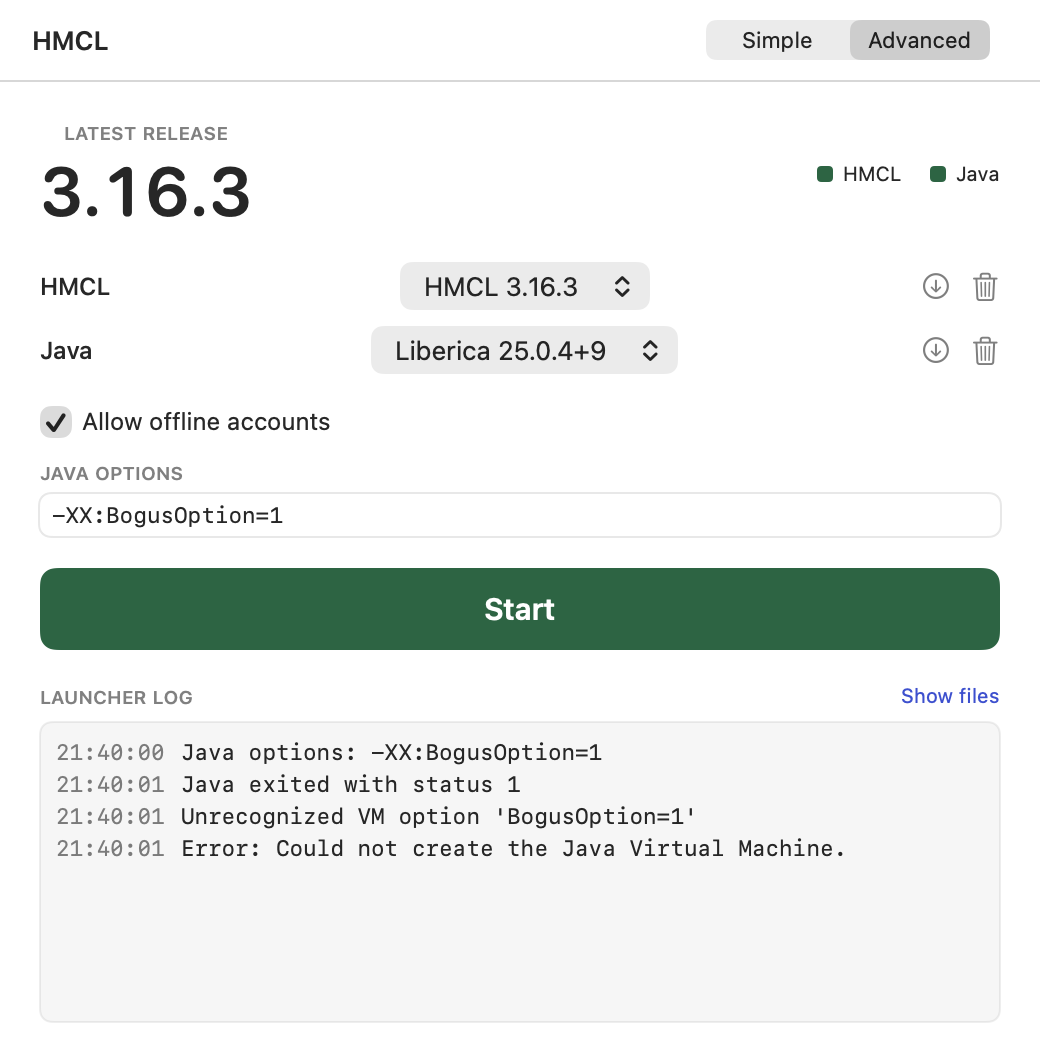
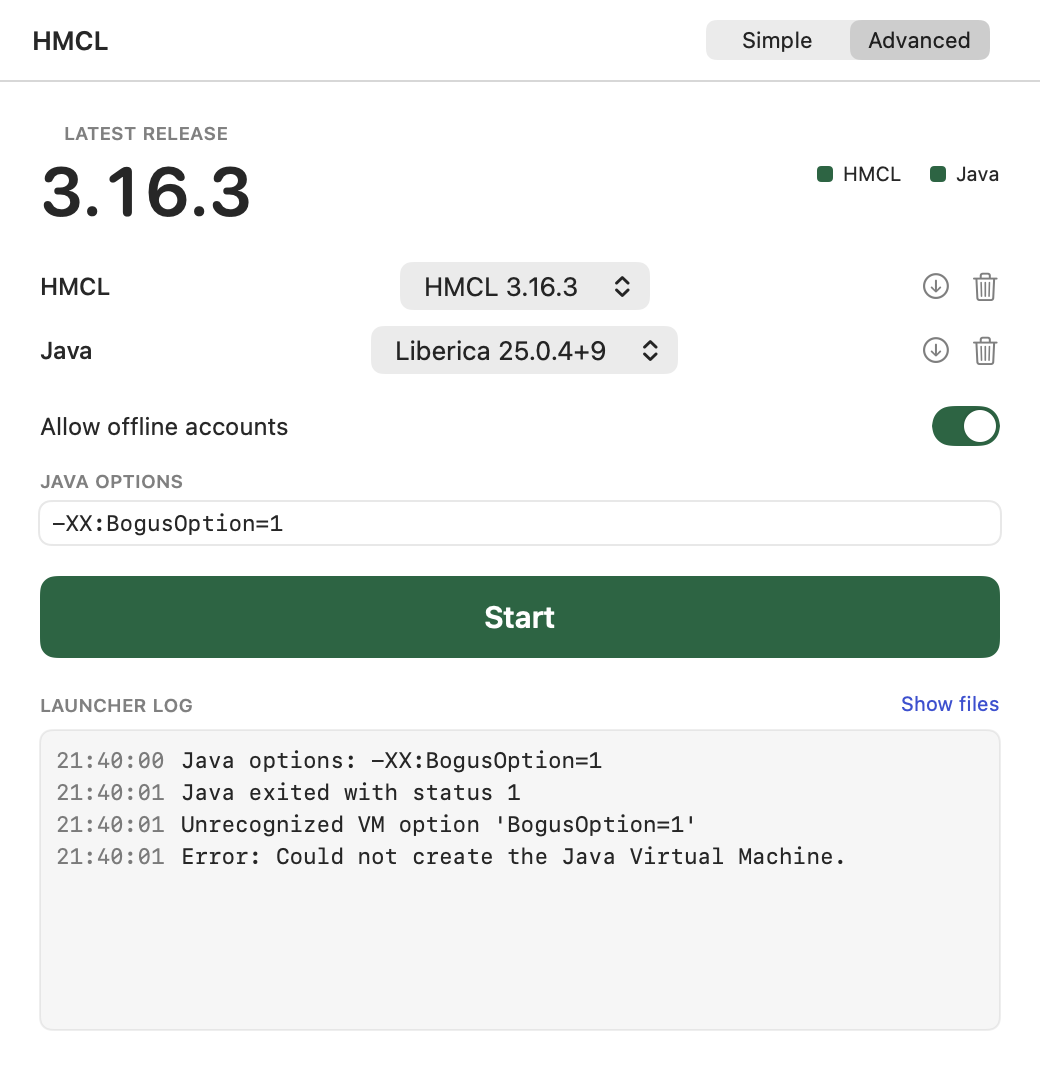
feat: switch instead of a checkbox for offline accounts
Drawn from SwiftUI shapes rather than AppKit's .switch style, for two
reasons.

It turns the app's own moss green, so "on" matches the Start button
instead of the system accent.

And NSSwitch cannot be photographed. It positions its knob where neither
cacheDisplay nor layer.render(in:) reaches, so an enabled switch rendered
as disabled in every screenshot — the verification tool was lying about
the thing being verified. layer.render also flipped the whole image.

Advanced pushes the switch to the trailing edge so it lines up with the
controls above it; Simple keeps label and switch as one centred pair.
Giving a Toggle a wide frame centres the pair instead, so the alignment
uses an explicit Spacer. The cold-start fixture now renders with it off,
so screenshots cover both states.

Also 1.0.2, with CFBundleVersion set to match CFBundleShortVersionString:
macOS shows "Version 1.0.1 (1)" in the About window whenever they differ,
and that trailing build number is not wanted. CLAUDE.md now lists the
four places a version lives, and records that .switch must not come back.

diff --git a/Sources/HMCLLauncher/DesignTokens.swift b/Sources/HMCLLauncher/DesignTokens.swift
@@ -45,6 +45,49 @@ struct ReadinessDot: View {
     }
 }
 
+/// A switch drawn from SwiftUI shapes rather than AppKit's `.switch` style.
+///
+/// Two reasons. It turns the app's own green rather than the system accent, so
+/// "on" matches the Start button. And AppKit's NSSwitch positions its knob
+/// somewhere `cacheDisplay` cannot photograph — an enabled switch came out
+/// looking off in every screenshot, which made the UI impossible to verify.
+struct MossSwitchStyle: ToggleStyle {
+    /// Advanced mode pushes the switch to the trailing edge so it lines up with
+    /// the controls above it. Simple mode keeps label and switch as one pair.
+    var fillsWidth = false
+
+    func makeBody(configuration: Configuration) -> some View {
+        HStack(spacing: 8) {
+            configuration.label
+            if fillsWidth {
+                Spacer(minLength: 12)
+            }
+            track(isOn: configuration.isOn)
+        }
+        .contentShape(Rectangle())
+        .onTapGesture {
+            withAnimation(.easeInOut(duration: 0.15)) {
+                configuration.isOn.toggle()
+            }
+        }
+        .accessibilityElement(children: .combine)
+        .accessibilityAddTraits(configuration.isOn ? [.isButton, .isSelected] : .isButton)
+    }
+
+    private func track(isOn: Bool) -> some View {
+        Capsule()
+            .fill(isOn ? Palette.go : Palette.pending)
+            .frame(width: 34, height: 20)
+            .overlay(alignment: isOn ? .trailing : .leading) {
+                Circle()
+                    .fill(.white)
+                    .shadow(color: .black.opacity(0.18), radius: 0.8, y: 0.5)
+                    .frame(width: 16, height: 16)
+                    .padding(2)
+            }
+    }
+}
+
 /// The single bold object in the window.
 struct StartButtonStyle: ButtonStyle {
     var enabled: Bool

diff --git a/Sources/HMCLLauncher/ContentView.swift b/Sources/HMCLLauncher/ContentView.swift
@@ -115,10 +115,14 @@ struct StartButton: View {
 /// an online-mode server, so the label says accounts, not "offline mode".
 struct OfflineAccountsToggle: View {
     @Binding var isOn: Bool
+    /// Advanced mode fills the width so the switch lines up with the controls in
+    /// the rows above it. Simple mode keeps the label and switch as one centred
+    /// pair.
+    var fillsWidth = false
 
     var body: some View {
         Toggle("Allow offline accounts", isOn: $isOn)
-            .toggleStyle(.checkbox)
+            .toggleStyle(MossSwitchStyle(fillsWidth: fillsWidth))
             .font(.callout)
             .help("Shows HMCL's offline login option, which it hides by default outside mainland China")
     }
@@ -225,7 +229,7 @@ struct AdvancedModeView: View {
             }
 
             VStack(alignment: .leading, spacing: 10) {
-                OfflineAccountsToggle(isOn: $model.offlineAccountsEnabled)
+                OfflineAccountsToggle(isOn: $model.offlineAccountsEnabled, fillsWidth: true)
                 JavaOptionsField(text: $model.customJavaOptions)
             }
             .frame(maxWidth: .infinity, alignment: .leading)

diff --git a/Sources/HMCLLauncher/ScreenshotRenderer.swift b/Sources/HMCLLauncher/ScreenshotRenderer.swift
@@ -154,7 +154,9 @@ enum ScreenshotRenderer {
                 latestNote: nil,
                 launchers: [],
                 runtimes: [],
-                events: []
+                events: [],
+                // Off here on purpose, so a screenshot covers both switch states.
+                offlineAccountsEnabled: false
             )
         )
     }
@@ -182,6 +184,15 @@ enum ScreenshotRenderer {
         window.appearance = hosting.appearance
         window.contentView = hosting
         window.layoutIfNeeded()
+        window.displayIfNeeded()
+
+        // AppKit controls that animate into position — NSSwitch moves its knob —
+        // draw their starting state if captured immediately, which made an "on"
+        // switch photograph as "off". Let the run loop settle first.
+        let settle = Date().addingTimeInterval(0.4)
+        while Date() < settle {
+            RunLoop.main.run(mode: .default, before: Date().addingTimeInterval(0.02))
+        }
         window.displayIfNeeded()
 
         guard let bitmap = hosting.bitmapImageRepForCachingDisplay(in: hosting.bounds) else {

diff --git a/Sources/LauncherKit/LauncherKit.swift b/Sources/LauncherKit/LauncherKit.swift
@@ -5,5 +5,5 @@ import Foundation
 public enum AppIdentity {
     public static let bundleIdentifier = "net.tlau.HMCLLauncher"
     public static let displayName = "HMCL Launcher"
-    public static let version = "1.0.1"
+    public static let version = "1.0.2"
 }

diff --git a/CLAUDE.md b/CLAUDE.md
@@ -59,6 +59,27 @@ These were established by pulling `HMCL-3.16.3.jar` apart and testing against it
 
 `ImageRenderer` cannot rasterize AppKit-backed controls (pickers, borderless buttons come out blank) — do not switch back to it. For the same reason the log pane uses `VStack`, not `LazyVStack`: lazy containers draw nothing offscreen.
 
+Do not use AppKit's `.switch` toggle style. NSSwitch positions its knob where neither `cacheDisplay` nor `layer.render(in:)` can photograph it, so an enabled switch renders as disabled and the screenshot lies. Use `MossSwitchStyle` in `DesignTokens.swift`, which is drawn from SwiftUI shapes.
+
+## Releasing
+
+Bump all three in the same commit, then tag:
+
+- `Resources/Info.plist` → `CFBundleShortVersionString`
+- `Resources/Info.plist` → `CFBundleVersion`
+- `Sources/LauncherKit/LauncherKit.swift` → `AppIdentity.version`
+
+The README carries no version — Quick start links to Releases and `make-dmg.sh` reads the plist — so there is nothing to change there.
+
+The two plist keys must hold the **same** value. macOS shows `Version 1.0.1 (1)` in the About window whenever they differ, and that trailing build number is not wanted.
+
+```bash
+/usr/libexec/PlistBuddy -c "Set :CFBundleShortVersionString 1.0.2" \
+                        -c "Set :CFBundleVersion 1.0.2" Resources/Info.plist
+```
+
+Pushing a `v*` tag is what publishes the release; `.github/workflows/release.yml` builds the DMG and attaches it. Wait for the master run to go green before tagging, so a broken build never produces a release.
+
 ## Workflow
 
 `openspec/` is gitignored; the change lives in `openspec/changes/add-hmcl-launcher/`. Run `openspec validate <change>` after editing its artifacts.
